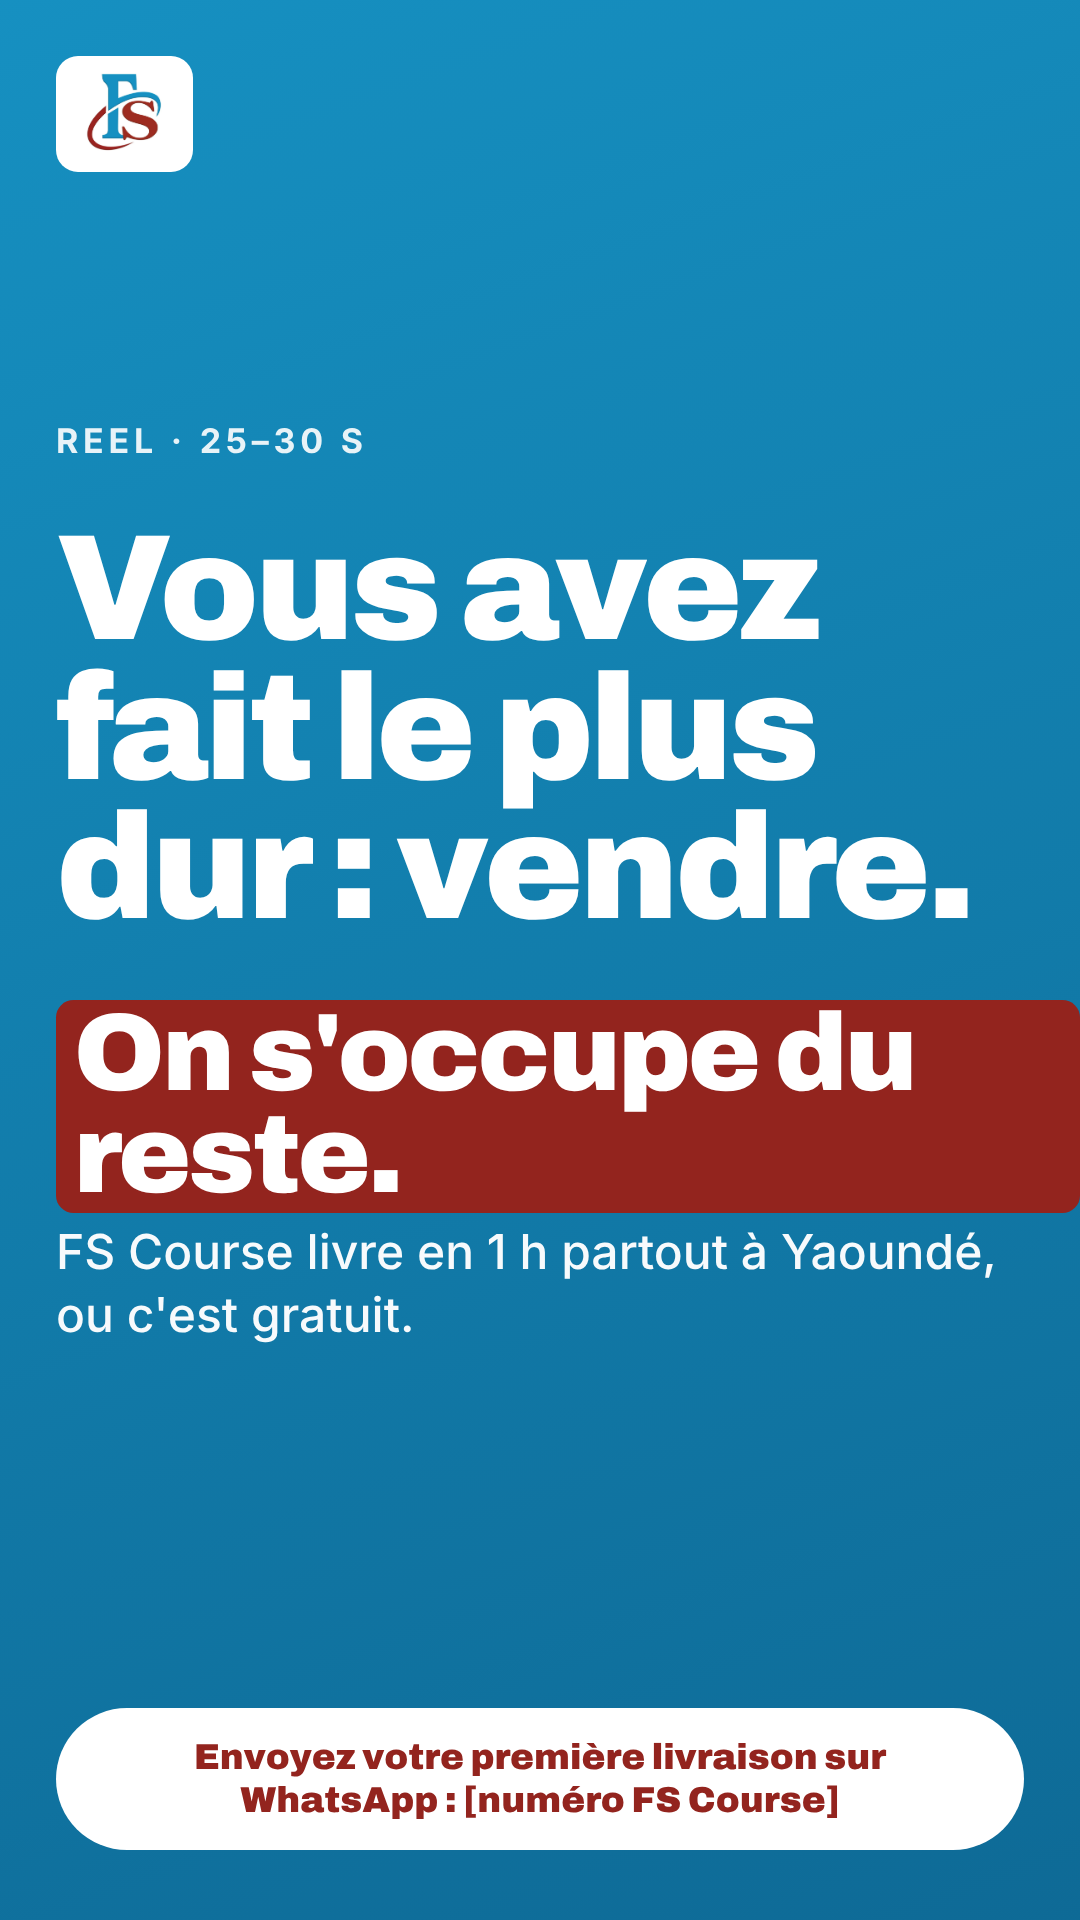
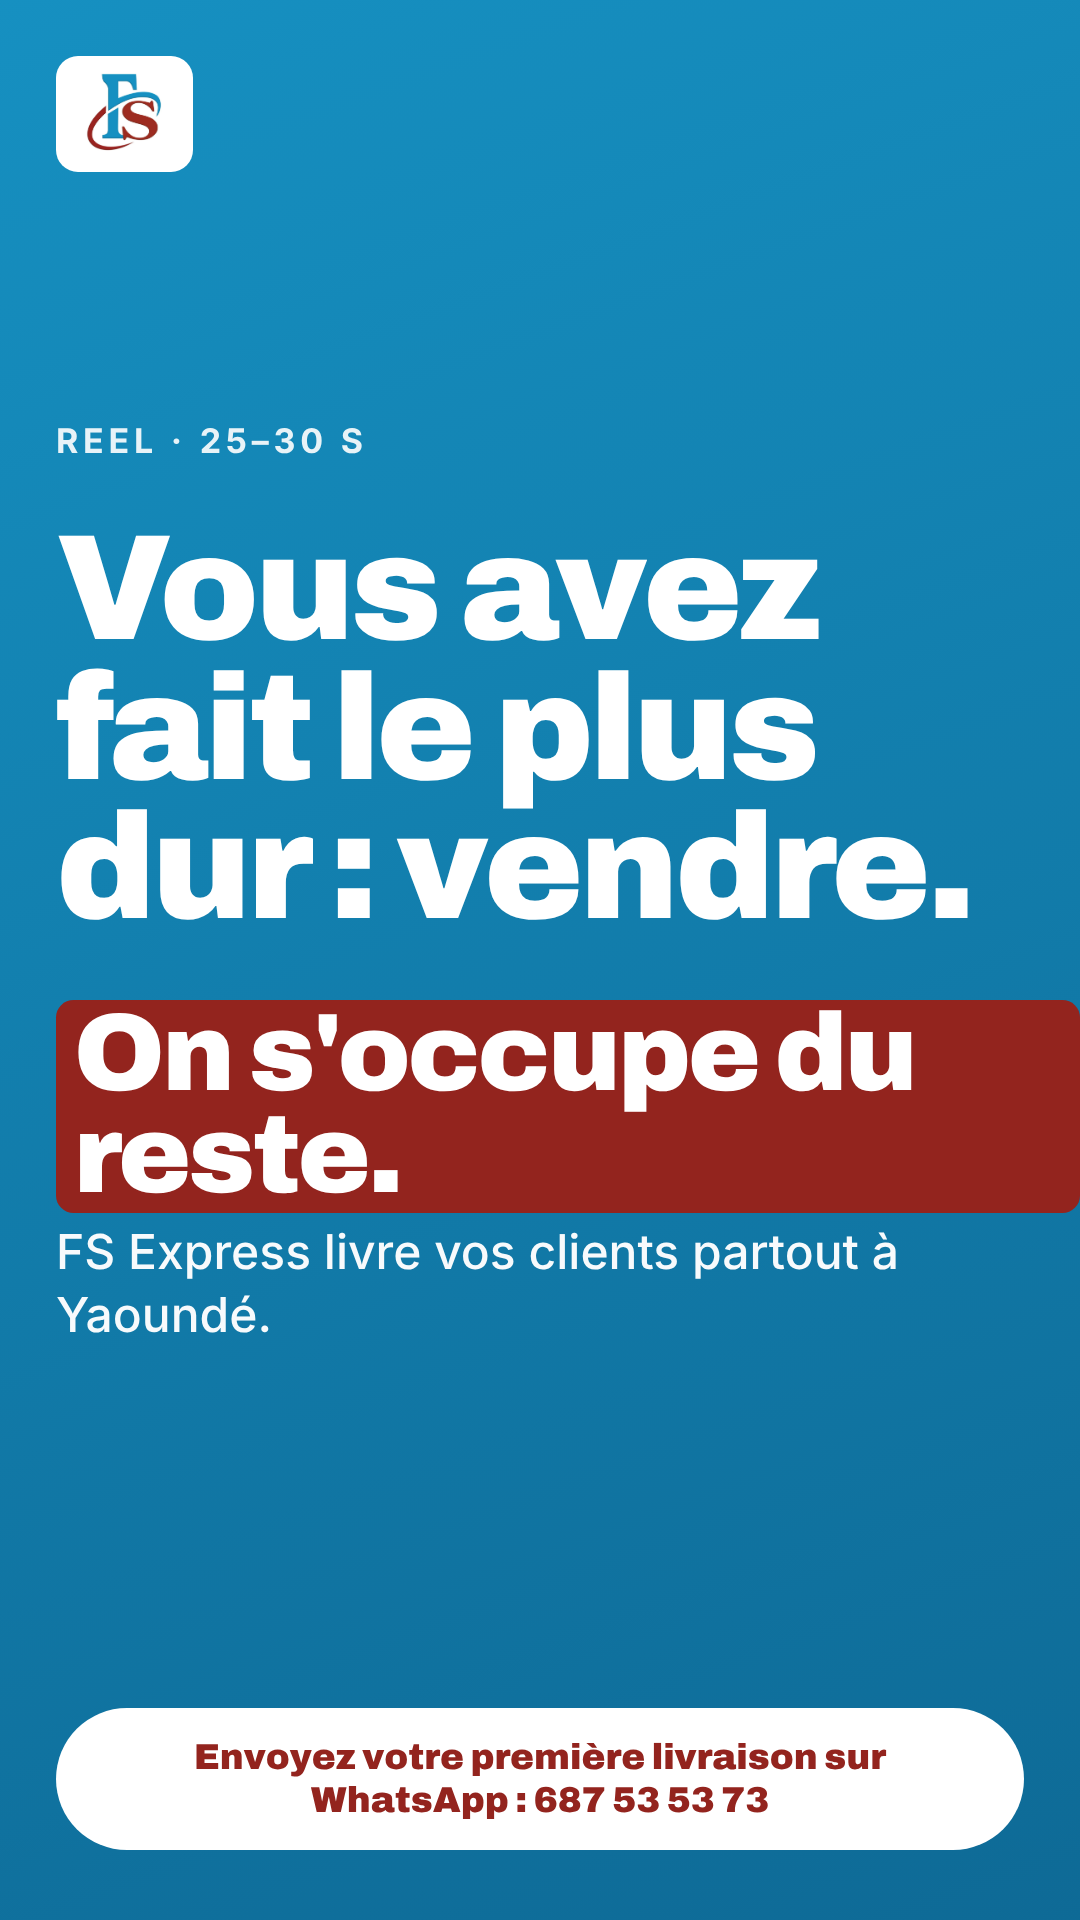
Update campaign visuals: FS Express name, phone number, drop guarantee
Brand name set to FS Express, WhatsApp number 687 53 53 73 filled in,
the "1 h ou gratuit" guarantee removed (Thursday Instagram creatives
deleted and delivery-time claims removed from copy). Guide offer kept.

Claude-Session: https://claude.ai/code/session_01RXtv1MBkunuGbnBVHu5Xbr

Changed region(s): [[0.0611, 0.625, 0.9167, 0.7188], [0.2139, 0.9062, 0.6417, 0.9688], [0.6722, 0.9062, 0.7639, 0.9688]]

diff --git a/direction-artistique/campagne-s1/creas.html b/direction-artistique/campagne-s1/creas.html
@@ -129,8 +129,8 @@
   <div class="pg">06 / 06</div>
   <div class="t" style="top:330px;left:56px;font-size:104px;width:968px">Vous avez fait le plus dur : vendre.</div>
   <div class="body" style="top:640px;left:56px;right:56px;font-size:46px;width:968px">Ne laissez plus la livraison décider à votre place.</div>
-  <div class="card" style="left:56px;right:56px;top:830px;font-size:36px;font-weight:600;color:var(--nuit)">Guide gratuit : « 5 erreurs qui font perdre des ventes aux vendeurs en ligne à Yaoundé » <span style="color:var(--rouge);font-weight:800">(à confirmer)</span></div>
-  <div class="cta" style="bottom:70px;font-size:38px">Envoyez votre première livraison sur WhatsApp : [numéro FS Course]</div>
+  <div class="card" style="left:56px;right:56px;top:830px;font-size:36px;font-weight:600;color:var(--nuit)">Guide gratuit : « 5 erreurs qui font perdre des ventes aux vendeurs en ligne à Yaoundé »</div>
+  <div class="cta" style="bottom:70px;font-size:38px">Envoyez votre première livraison sur WhatsApp : 687 53 53 73</div>
 </div></div>
 
 <!-- ============ TIKTOK · LUNDI · COUVERTURE SKETCH ============ -->
@@ -151,8 +151,8 @@
   <div class="k" style="top:420px;left:56px">Reel · 25–30 s</div>
   <div class="t" style="top:520px;left:56px;font-size:150px;width:968px">Vous avez fait le plus dur : vendre.</div>
   <div class="t" style="top:1000px;left:56px;font-size:110px"><span class="hl">On s'occupe du reste.</span></div>
-  <div class="body" style="top:1220px;left:56px;right:56px;font-size:48px;width:968px">FS Course livre en 1 h partout à Yaoundé, ou c'est gratuit.</div>
-  <div class="cta" style="bottom:70px;font-size:36px">Envoyez votre première livraison sur WhatsApp : [numéro FS Course]</div>
+  <div class="body" style="top:1220px;left:56px;right:56px;font-size:48px;width:968px">FS Express livre vos clients partout à Yaoundé.</div>
+  <div class="cta" style="bottom:70px;font-size:36px">Envoyez votre première livraison sur WhatsApp : 687 53 53 73</div>
 </div></div>
 
 <!-- ============ INSTAGRAM · MERCREDI · STORIES 3 ÉCRANS ============ -->
@@ -180,7 +180,7 @@
   <div class="logo"><img src="../assets/logo-fs-express.jpg" alt="Logo FS Express"></div>
   <div class="t" style="top:600px;left:56px;font-size:160px;width:968px">Répondez-nous en message.</div>
   <div class="body" style="top:1230px;left:56px;right:56px;font-size:50px">Dites-nous ce qui vous arrive avec vos livreurs.</div>
-  <div class="cta" style="bottom:110px;font-size:38px">WhatsApp : [numéro FS Course]</div>
+  <div class="cta" style="bottom:110px;font-size:38px">WhatsApp : 687 53 53 73</div>
 </div></div>
 
 <!-- ============ TIKTOK · MERCREDI · AVANT / APRÈS COUVERTURE ============ -->
@@ -199,34 +199,18 @@
 <div class="wrapc"><h4>07 · Jeudi · Facebook · Affiche 3 étapes (1080×1350)</h4>
 <div class="crea p bg-nuit" id="jeu-fb-etapes">
   <div class="logo"><img src="../assets/logo-fs-express.jpg" alt="Logo FS Express"></div>
-  <div class="t" style="top:300px;left:56px;font-size:104px;width:968px">Livrer avec FS Course, c'est <span class="hl">3 étapes.</span></div>
+  <div class="t" style="top:300px;left:56px;font-size:104px;width:968px">Livrer avec FS Express, c'est <span class="hl">3 étapes.</span></div>
   <div class="step" style="top:650px"><div class="n">1</div><div class="tx">Vous envoyez la commande sur WhatsApp.</div></div>
   <div class="step" style="top:820px"><div class="n b">2</div><div class="tx">Un livreur de votre zone la récupère.</div></div>
-  <div class="step" style="top:990px"><div class="n">3</div><div class="tx">Votre client est livré en 1 h, et votre argent revient vite.</div></div>
-  <div class="cta" style="bottom:40px;font-size:34px">Envoyez votre première livraison sur WhatsApp : [numéro FS Course]</div>
+  <div class="step" style="top:990px"><div class="n">3</div><div class="tx">Votre client est livré, et votre argent revient vite.</div></div>
+  <div class="cta" style="bottom:40px;font-size:34px">Envoyez votre première livraison sur WhatsApp : 687 53 53 73</div>
 </div></div>
 
 <!-- ============ INSTAGRAM · JEUDI · AFFICHE 1 H OU GRATUIT ============ -->
-<div class="wrapc"><h4>08 · Jeudi · Instagram · Affiche « 1 h ou gratuit » (1080×1350)</h4>
-<div class="crea p bg-rouge" id="jeu-ig-1h">
-  <div class="logo"><img src="../assets/logo-fs-express.jpg" alt="Logo FS Express"></div>
-  <div class="t" style="top:300px;left:56px;font-size:130px;width:968px">Votre client attend ?</div>
-  <div class="t" style="top:560px;left:56px;font-size:200px;width:968px;color:#fff">1 h</div>
-  <div class="t" style="top:760px;left:56px;font-size:88px;width:968px"><span class="hl">ou c'est gratuit.</span></div>
-  <div class="note" style="top:920px;font-size:36px">Conditions de la garantie (zones, délai, exclusions) : [à valider avant publication]</div>
-  <div class="cta" style="bottom:70px;font-size:38px">Écrivez-nous sur WhatsApp : [numéro FS Course]</div>
-</div></div>
+
 
 <!-- ============ INSTAGRAM · JEUDI · STORY 1 H OU GRATUIT ============ -->
-<div class="wrapc"><h4>08 · Jeudi · Instagram · Story « 1 h ou gratuit » (1080×1920)</h4>
-<div class="crea s bg-rouge" id="jeu-ig-story-1h">
-  <div class="logo"><img src="../assets/logo-fs-express.jpg" alt="Logo FS Express"></div>
-  <div class="t" style="top:560px;left:56px;font-size:150px;width:968px">Votre client attend ?</div>
-  <div class="t" style="top:900px;left:56px;font-size:340px;width:968px">1 h</div>
-  <div class="t" style="top:1260px;left:56px;font-size:90px;width:968px"><span class="hl">ou c'est gratuit.</span></div>
-  <div class="note" style="top:1420px;font-size:34px">Conditions : [zones, délai, exclusions — à valider]</div>
-  <div class="cta" style="bottom:110px;font-size:36px">Écrivez-nous sur WhatsApp : [numéro FS Course]</div>
-</div></div>
+
 
 <!-- ============ FACEBOOK · VENDREDI · POST QUESTION (1080×1080) ============ -->
 <div class="wrapc"><h4>09 · Vendredi · Facebook · Post question (1080×1080)</h4>
@@ -247,7 +231,7 @@
   <div class="step" style="top:1110px"><div class="n b">2</div><div class="tx">Le livreur récupère</div></div>
   <div class="step" style="top:1260px"><div class="n">3</div><div class="tx">Le client reçoit</div></div>
   <div class="step" style="top:1410px"><div class="n b">4</div><div class="tx">Le cash est reversé</div></div>
-  <div class="cta" style="bottom:110px;font-size:34px">Écrivez-nous sur WhatsApp : [numéro FS Course]</div>
+  <div class="cta" style="bottom:110px;font-size:34px">Écrivez-nous sur WhatsApp : 687 53 53 73</div>
 </div></div>
 
 <!-- ============ INSTAGRAM · SAMEDI · STORIES RÉCAP 3 ÉCRANS ============ -->
@@ -265,14 +249,14 @@
   <div class="t" style="top:560px;left:56px;font-size:150px;width:968px">Le plan en 3 étapes.</div>
   <div class="step" style="top:960px"><div class="n">1</div><div class="tx">Vous envoyez la commande</div></div>
   <div class="step" style="top:1110px"><div class="n b">2</div><div class="tx">On la récupère</div></div>
-  <div class="step" style="top:1260px"><div class="n">3</div><div class="tx">Votre client est livré en 1 h</div></div>
+  <div class="step" style="top:1260px"><div class="n">3</div><div class="tx">Votre client est livré</div></div>
 </div></div>
 
 <div class="wrapc"><h4>11 · Samedi · Instagram · Story récap 3/3</h4>
 <div class="crea s bg-rouge" id="sam-ig-story-3">
   <div class="logo"><img src="../assets/logo-fs-express.jpg" alt="Logo FS Express"></div>
   <div class="t" style="top:560px;left:56px;font-size:150px;width:968px">Ne perdez plus une vente à cause d'un livreur.</div>
-  <div class="cta" style="bottom:110px;font-size:36px">Envoyez votre première livraison sur WhatsApp : [numéro FS Course]</div>
+  <div class="cta" style="bottom:110px;font-size:36px">Envoyez votre première livraison sur WhatsApp : 687 53 53 73</div>
 </div></div>
 
 </body>

diff --git a/direction-artistique/campagne-s1/README.md b/direction-artistique/campagne-s1/README.md
@@ -4,7 +4,7 @@ Source : `PLANNING_SEMAINE_1_FS_COURSE` (lundi 23 au samedi 28 novembre 2026) et
 
 Les PNG sont dans `png/` (taille réelle des formats). `creas.html` contient toutes les créas et permet de les régénérer.
 
-## Créas exportées (21 fichiers)
+## Créas exportées (19 fichiers)
 
 | Jour | Plateforme | Fichier | Format |
 |---|---|---|---|
@@ -15,7 +15,6 @@ Les PNG sont dans `png/` (taille réelle des formats). `creas.html` contient tou
 | Mercredi | Instagram | `mer-ig-story-1.png` à `mer-ig-story-3.png` | stories 1080×1920 |
 | Mercredi | TikTok | `mer-tt-avant-apres-cover.png` | couverture 1080×1920 (vidéo à tourner) |
 | Jeudi | Facebook | `jeu-fb-etapes.png` | 1080×1350 |
-| Jeudi | Instagram | `jeu-ig-1h.png`, `jeu-ig-story-1h.png` | 1080×1350 et 1080×1920 |
 | Vendredi | Facebook | `ven-fb-question.png` | 1080×1080 |
 | Vendredi | TikTok | `ven-tt-reelle-cover.png` | couverture 1080×1920 (livraison réelle à filmer) |
 | Samedi | Instagram | `sam-ig-story-1.png` à `sam-ig-story-3.png` | stories 1080×1920 |
@@ -23,12 +22,15 @@ Les PNG sont dans `png/` (taille réelle des formats). `creas.html` contient tou
 ## Ce qui reste à faire avant publication
 
 - **Vidéos** : le sketch (lundi), le Reel (mardi), l'avant/après (mercredi) et la livraison réelle (vendredi) ne sont que des couvertures. Il faut les tourner. La livraison réelle nécessite l'accord écrit du marchand.
-- **Numéro WhatsApp** : `[numéro FS Course]` est un emplacement à remplacer partout.
-- **Garantie « 1 h ou gratuit »** : zones, délai et exclusions à confirmer avant la publication du jeudi.
-- **Guide gratuit** (carrousel, slide 6) : à confirmer, sinon retirer la mention.
-- **Nom de marque** : le planning parle de « FS Course », le logo fourni et la direction artistique sont « FS Express ». Les textes suivent le planning. Il faut trancher avant publication.
-- **Témoignages** : aucun nom de marchand n'est utilisé ici. Tout témoignage nécessite un accord écrit.
 - **Résultat du sondage** (story du samedi) : `[résultat du sondage]` à remplacer.
+- **Jeudi Instagram** : l'affiche et la story « 1 h ou gratuit » sont retirées (garantie non validée). Le créneau est vide, à remplacer si besoin.
+
+## Décisions prises
+
+- Nom de marque : **FS Express** (remplace « FS Course » partout).
+- Numéro WhatsApp : **687 53 53 73** (remplace l'emplacement).
+- Garantie « 1 h ou gratuit » retirée. Les mentions de délai de 1 h ont aussi été retirées des textes.
+- Guide gratuit « 5 erreurs qui font perdre des ventes aux vendeurs en ligne à Yaoundé » conservé.
 
 ## Règles appliquées (checklist SB7)
 
